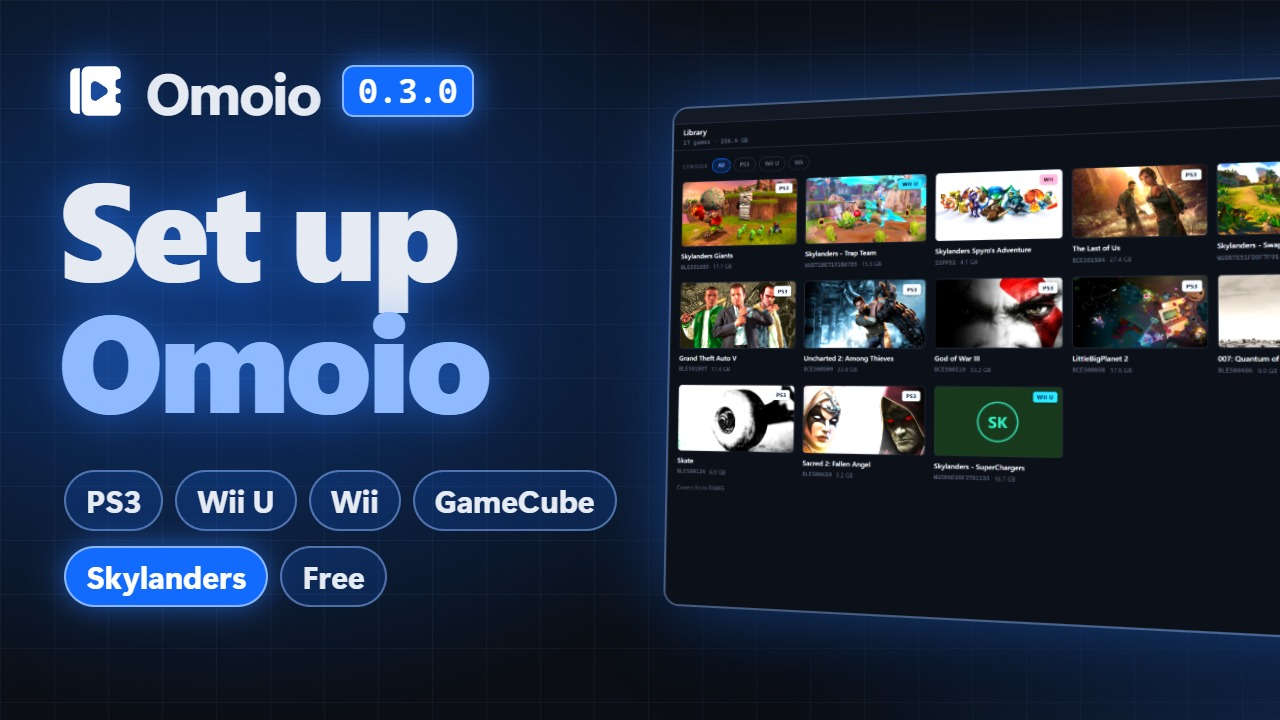
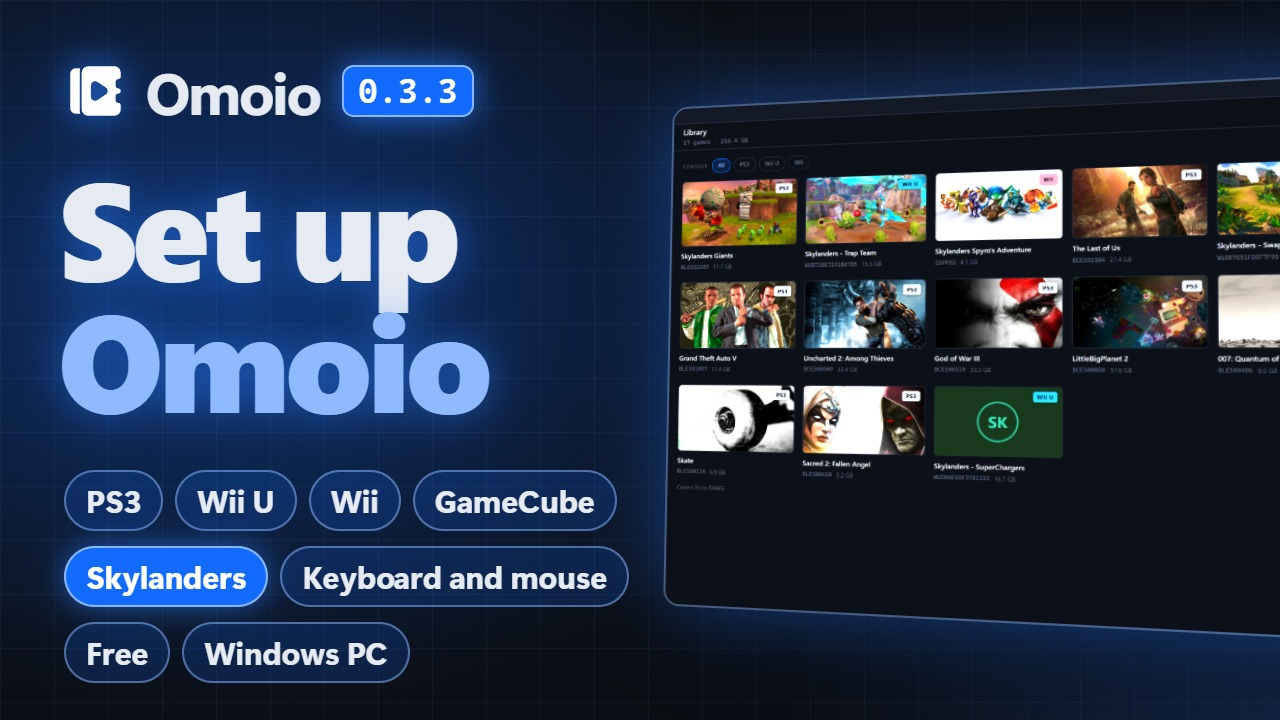
Link the 0.3.3 setup guide on the site
The new guide covers keyboard and mouse, the portal menu opening with
Insert or Tab, the figure pictures and Omoio's own Cemu build.

Changed region(s): [[0.0312, 0.7333, 0.5, 0.9472], [0.3438, 0.1222, 0.375, 0.1528]]

diff --git a/site/index.html b/site/index.html
@@ -94,13 +94,13 @@
       },
       {
         "@type": "VideoObject",
-        "name": "How to set up Omoio: PS3, Wii U, Wii and GameCube games on PC",
-        "description": "A step by step guide to setting up Omoio 0.3.0 on Windows: download and install it, pick the emulators, add the PS3 firmware, import your games, set up a controller and press Play, then Big Picture, Community packs, save backups and the Skylanders portal menu.",
+        "name": "How to play PS3, Wii U, Wii and GameCube games on PC in 2026: Omoio setup guide",
+        "description": "A step by step guide to setting up Omoio 0.3.3 on Windows: download and install it, pick the emulators, add the PS3 firmware, import your games, set up a controller or the keyboard and mouse and press Play, then the Skylanders portal menu, figure pictures, Big Picture, Community packs and save backups.",
         "thumbnailUrl": "https://omoio.app/guide.jpg",
-        "uploadDate": "2026-10-09",
-        "duration": "PT3M58S",
-        "contentUrl": "https://www.youtube.com/watch?v=ioL5LjZmEXs",
-        "embedUrl": "https://www.youtube.com/embed/ioL5LjZmEXs"
+        "uploadDate": "2026-10-23",
+        "duration": "PT4M31S",
+        "contentUrl": "https://www.youtube.com/watch?v=ZOjGMjNL6Dg",
+        "embedUrl": "https://www.youtube.com/embed/ZOjGMjNL6Dg"
       },
       {
         "@type": "FAQPage",
@@ -317,10 +317,10 @@
         <p>The setup guide shows every step on screen, with chapters so you can skip to the one you need.</p>
       </div>
       <div class="media-video">
-        <a id="guide-video" class="video-frame" href="https://youtu.be/ioL5LjZmEXs" data-video="ioL5LjZmEXs" data-title="How to set up Omoio" aria-label="Play the setup guide, 3 minutes 58 seconds">
-          <img src="guide.jpg" width="1280" height="720" loading="lazy" alt="The title card of the Omoio 0.3.0 setup guide, with the library and the four consoles">
+        <a id="guide-video" class="video-frame" href="https://youtu.be/ZOjGMjNL6Dg" data-video="ZOjGMjNL6Dg" data-title="How to set up Omoio" aria-label="Play the setup guide, 4 minutes 31 seconds">
+          <img src="guide.jpg" width="1280" height="720" loading="lazy" alt="The title card of the Omoio 0.3.3 setup guide, with the library and the four consoles">
           <span class="play" aria-hidden="true"><svg viewBox="0 0 24 24" fill="currentColor"><path d="M8 5.5v13a1 1 0 0 0 1.5.86l10.5-6.5a1 1 0 0 0 0-1.72L9.5 4.64A1 1 0 0 0 8 5.5Z"/></svg></span>
-          <span class="duration" aria-hidden="true">3:58</span>
+          <span class="duration" aria-hidden="true">4:31</span>
         </a>
         <p class="caption">The guide plays from YouTube when you press it.</p>
       </div>
